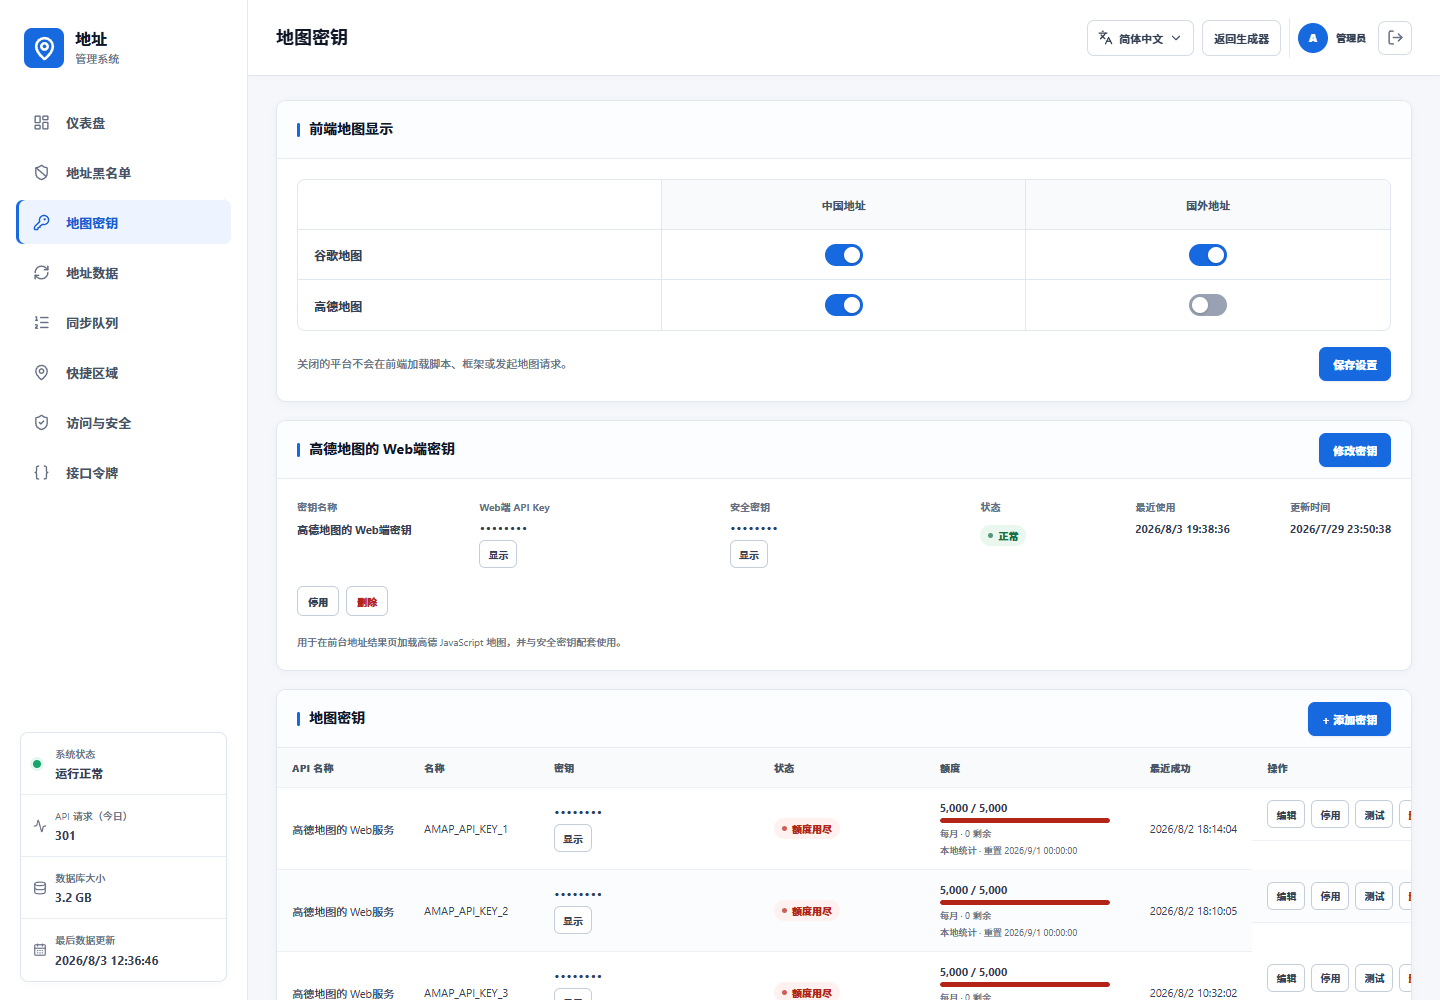
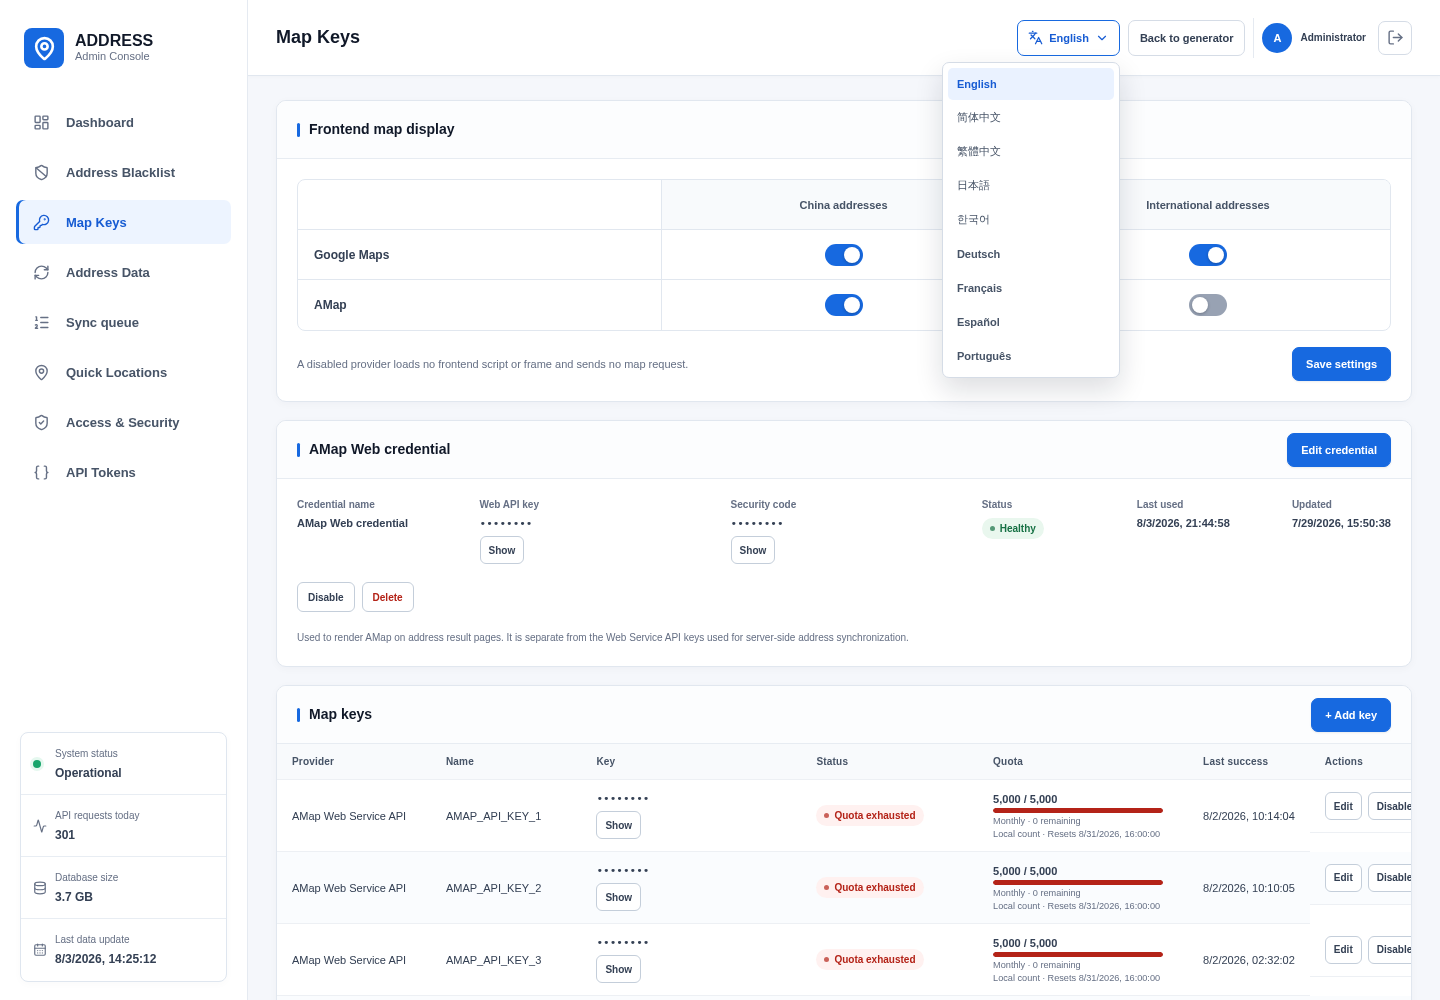
docs: add storage estimate and bilingual screenshot

diff --git a/README.md b/README.md
@@ -15,6 +15,8 @@
 
 Address reads a synchronized PostgreSQL address pool and returns a randomly selected eligible record together with a coherent synthetic profile. Public generation never downloads an upstream dataset or calls a map provider.
 
+**A typical completed deployment uses approximately 5 GB of disk space for the application and PostgreSQL address database. Active synchronization requires additional temporary space.**
+
 ## Highlights
 
 - 27 configured countries and regions with country, administrative-area, city, district, and postcode filters where supported.

diff --git a/README.zh-CN.md b/README.zh-CN.md
@@ -15,6 +15,8 @@
 
 Address 从已同步的 PostgreSQL 地址池中随机选择合格记录，并生成逻辑一致的合成测试资料。公开生成过程不会临时下载上游数据，也不会调用地图平台获取地址。
 
+**常规部署完成后，应用程序与 PostgreSQL 地址数据库大约占用 5 GB 硬盘空间；同步运行期间需要额外的临时空间。**
+
 ## 核心功能
 
 - 配置 27 个国家和地区，并按国家实际行政结构提供州省、城市、区县和邮编筛选。

diff --git a/README.zh-TW.md b/README.zh-TW.md
@@ -15,6 +15,8 @@
 
 Address 從已同步的 PostgreSQL 位址池隨機選擇合格記錄，並產生邏輯一致的合成測試資料。公開產生流程不會臨時下載上游資料，也不會呼叫地圖平台取得位址。
 
+**一般部署完成後，應用程式與 PostgreSQL 位址資料庫大約占用 5 GB 磁碟空間；同步執行期間需要額外的暫存空間。**
+
 ## 核心功能
 
 - 設定 27 個國家和地區，依實際行政結構提供州省、城市、區縣及郵遞區號篩選。
